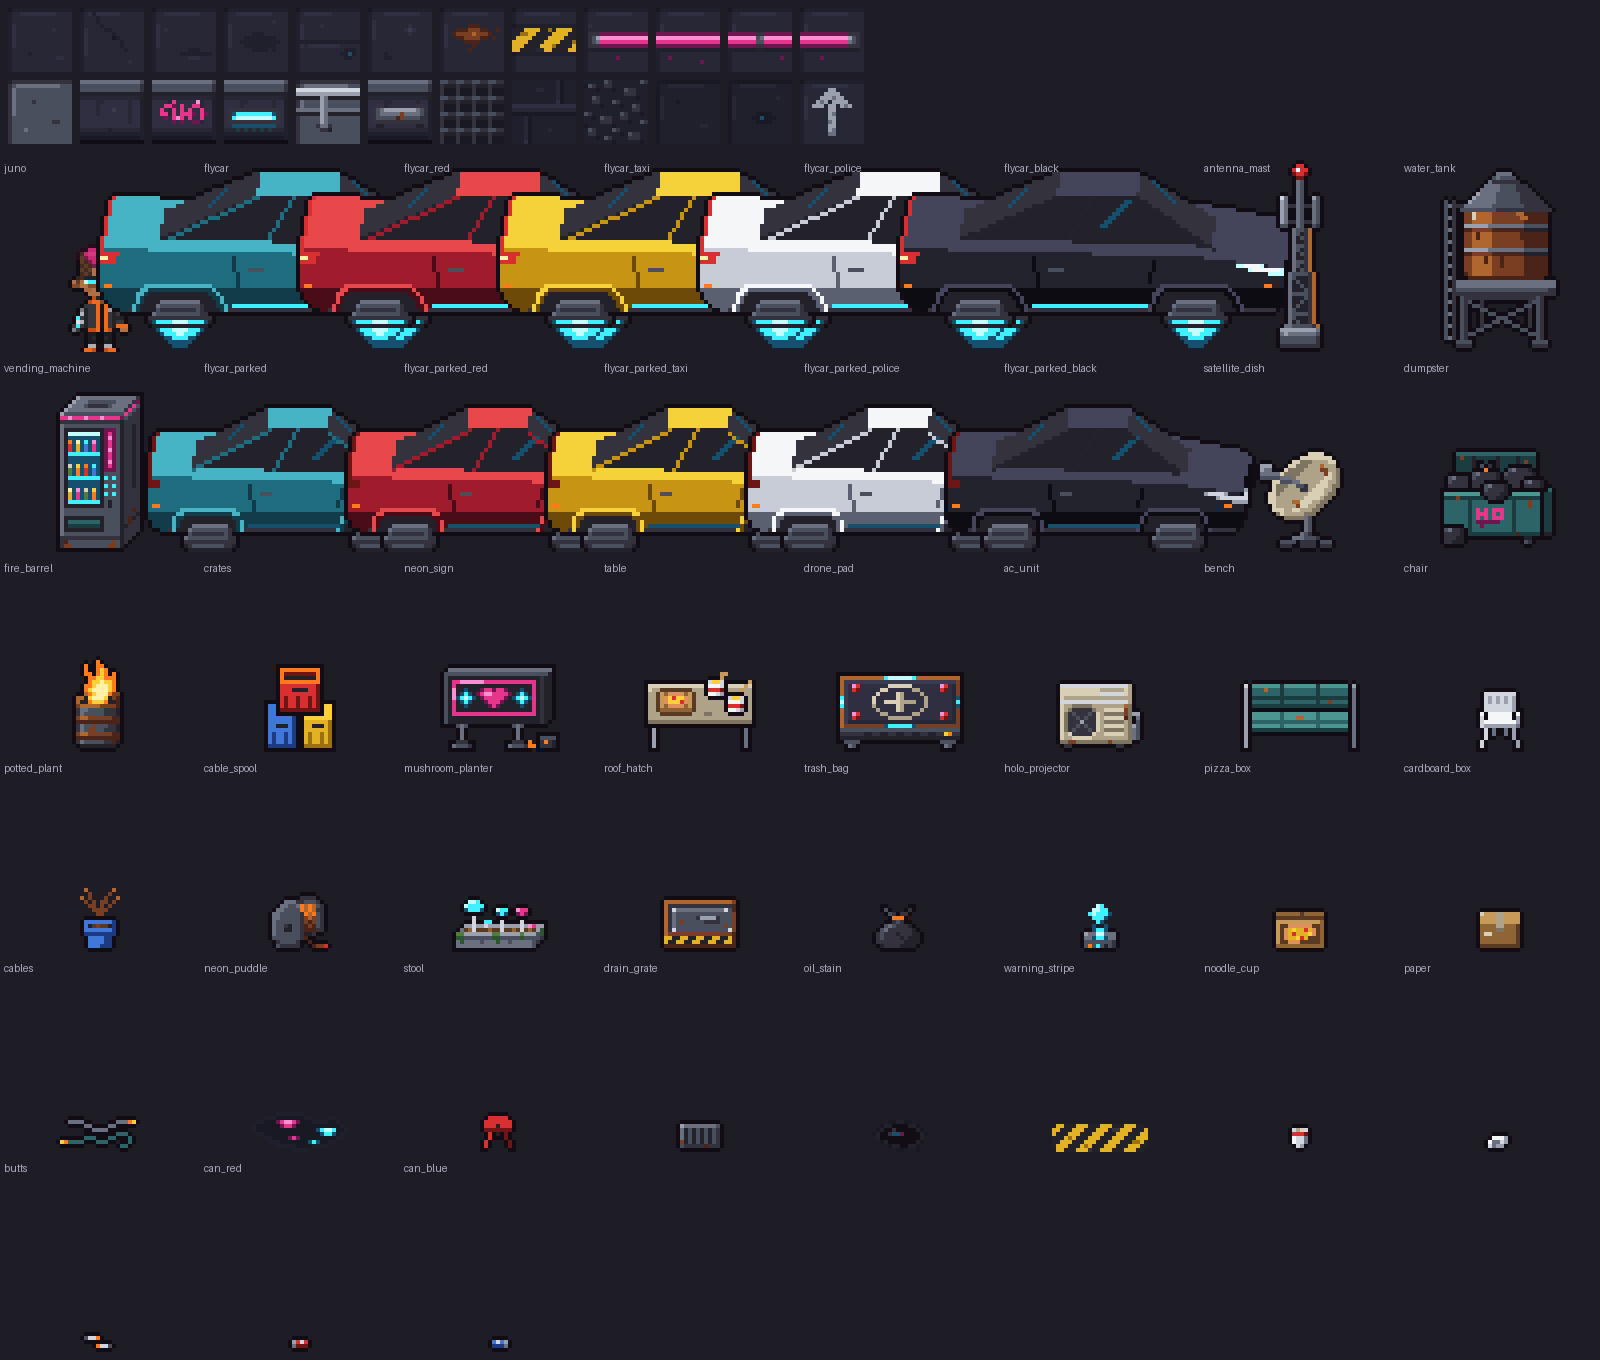
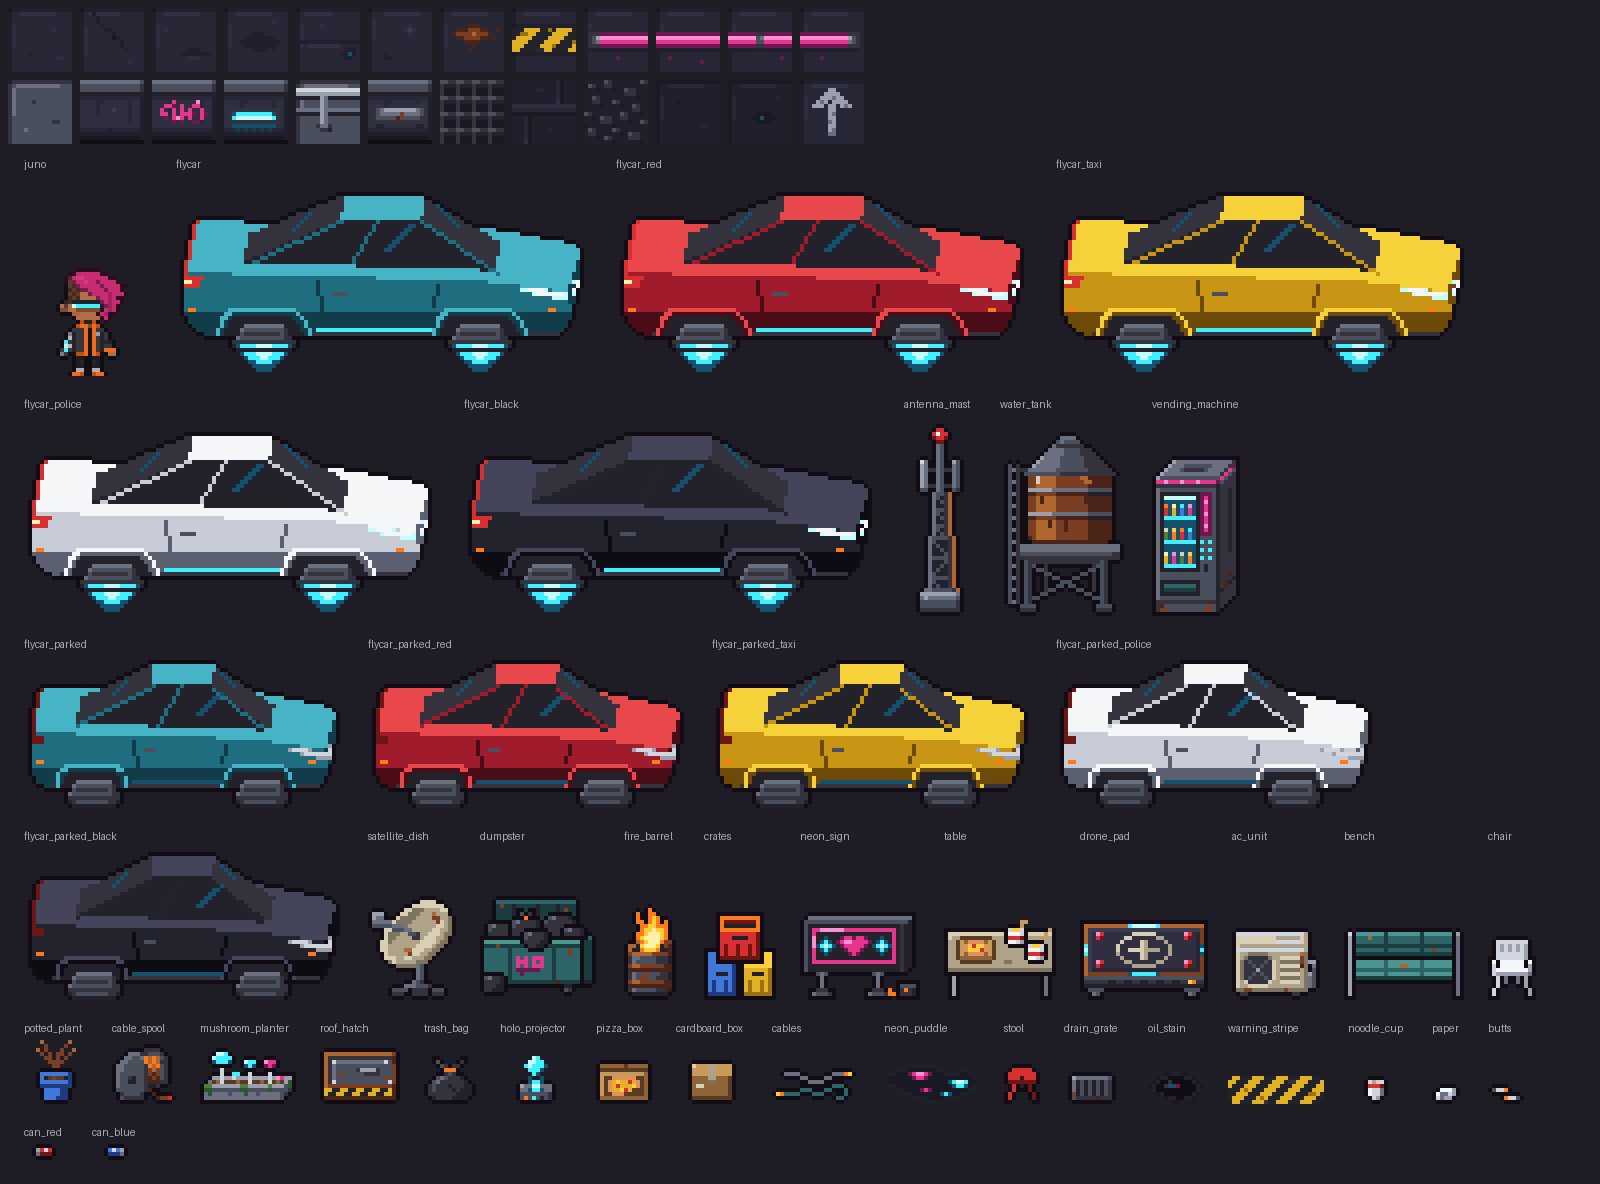
docs: shelf-pack the props sheet so big sprites don't overlap
The props preview placed every sprite in a fixed 50 px grid, so the
104 px flying cars drew over their neighbours. Sprites now get a cell
as wide as themselves (or their label), rows wrap at the sheet width
and are as tall as their tallest sprite, and similar sizes share rows.

Claude-Session: https://claude.ai/code/session_01Fv8yoVpx8AM9QtDidGMBtM

diff --git a/chargen/props.py b/chargen/props.py
@@ -189,29 +189,46 @@ def _pack(sprites, meta, tiles, emissive) -> Path:
     return OUT
 
 
-def preview(scale: int = 4) -> Path:
-    """All sprites and tiles on a dark floor at `scale`x, next to the character for size."""
+def preview(scale: int = 4, width: int = 400) -> Path:
+    """All sprites and tiles on a dark floor at `scale`x, next to the character for size.
+
+    Sprites are shelf-packed: each gets a cell as wide as itself (or its label), rows wrap at
+    `width` px and are as tall as their tallest sprite, so big sprites never overlap others."""
+    from PIL import ImageDraw
     atlas = Image.open(OUT / "atlas.png")
     meta = json.loads((OUT / "atlas.json").read_text())
     char = ROOT / "web/data/characters/juno/sheet.png"
-    items = [("juno", Image.open(char).crop((0, 0, 32, 32)))] if char.exists() else []
-    for k, s in list(meta["sprites"].items()):  # frame 0 of each sprite
-        items.append((k, atlas.crop((s["x"], s["y"], s["x"] + s["w"], s["y"] + s["h"]))))
-    cols, cell = 8, 50
-    rows = (len(items) + cols - 1) // cols
+    items = [(k, atlas.crop((s["x"], s["y"], s["x"] + s["w"], s["y"] + s["h"])))  # frame 0 of each sprite
+             for k, s in meta["sprites"].items()]
+    items.sort(key=lambda it: -it[1].height)  # similar sizes share a row
+    if char.exists():
+        items.insert(0, ("juno", Image.open(char).crop((0, 0, 32, 32))))
+    probe = ImageDraw.Draw(Image.new("RGBA", (1, 1)))
+    label_h, gap = 4, 6  # px at 1x: label line above each sprite, space between cells
+    place, x, y, row_h = [], gap, 0, 0
     tiles = list(meta["tiles"].items())
-    th = ((len(tiles) + 11) // 12) * 18
-    im = Image.new("RGBA", (cols * cell, rows * cell + th + 4), (30, 29, 38, 255))
+    top = ((len(tiles) + 11) // 12) * 18 + 4
+    y = top
+    for k, spr in items:
+        w = max(spr.width, int(probe.textlength(k) / scale) + 2)
+        if x + w > width - gap and x > gap:
+            x, y, row_h = gap, y + row_h + label_h + gap, 0
+        place.append((k, spr, x, y, w))
+        x += w + gap
+        row_h = max(row_h, spr.height)
+    rows_end = {}
+    for k, spr, px, py, w in place:  # bottom-align sprites within their row
+        rows_end[py] = max(rows_end.get(py, 0), spr.height)
+    H = max(py + label_h + rows_end[py] for _, _, _, py, _ in place) + gap
+    im = Image.new("RGBA", (width, H), (30, 29, 38, 255))
     for i, (k, t) in enumerate(tiles):
         im.alpha_composite(atlas.crop((t["x"], t["y"], t["x"] + 16, t["y"] + 16)), ((i % 12) * 18 + 2, (i // 12) * 18 + 2))
-    for i, (k, spr) in enumerate(items):
-        cx, cy = (i % cols) * cell, th + 4 + (i // cols) * cell
-        im.alpha_composite(spr, (cx + (cell - spr.width) // 2, cy + cell - spr.height - 2))
+    for k, spr, px, py, w in place:
+        im.alpha_composite(spr, (px + (w - spr.width) // 2, py + label_h + rows_end[py] - spr.height))
     big = im.resize((im.width * scale, im.height * scale), Image.NEAREST)
-    from PIL import ImageDraw
     d = ImageDraw.Draw(big)
-    for i, (k, _) in enumerate(items):
-        d.text(((i % cols) * cell * scale + 4, (th + 4 + (i // cols) * cell) * scale + 2), k, fill=(170, 170, 190, 255))
+    for k, spr, px, py, w in place:
+        d.text((px * scale, py * scale - 2), k, fill=(170, 170, 190, 255))
     PREVIEW_DIR.mkdir(parents=True, exist_ok=True)
     p = PREVIEW_DIR / "props.png"
     big.save(p)
